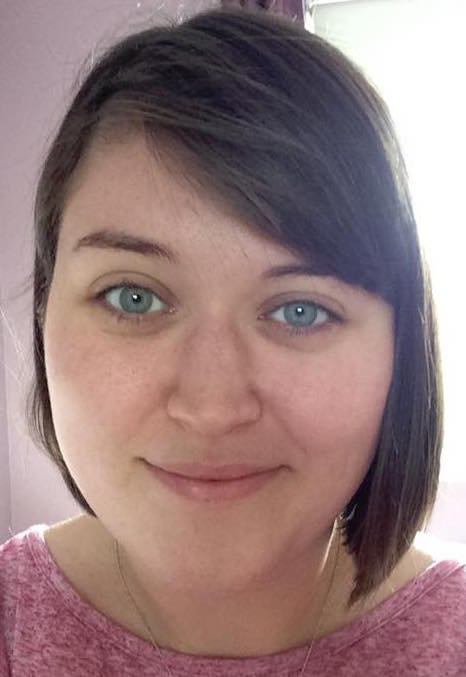
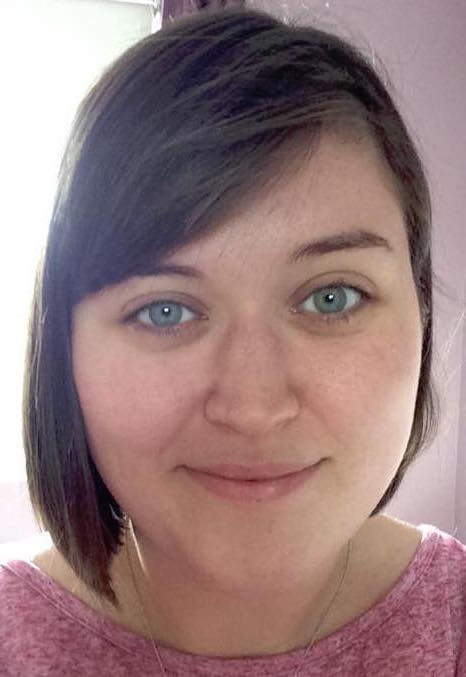
Committing updated photo and trying to fix mobile view

diff --git a/index.html b/index.html
@@ -2,7 +2,7 @@
 <html>
 	<head>
 		<title>Jill Robinson Portfolio</title>
-		<!-- <meta name="viewport" content="width=device-width, initial-scale=1"> -->
+		<meta name="viewport" content="width=device-width, initial-scale=1">
 	<style>
 
 		@font-face {
@@ -14,7 +14,37 @@
 			font-family: 'GravityBook', sans-serif;
 			margin: 0px;
 			padding: 0px;
+			width: 100%;
 		}
+
+		/*.grid_container {
+			width: 100%;
+			max-width: 1200px;
+		}
+
+		.row:before, .row:after {
+			content: "";
+			display: table ;
+			clear: both;
+		}
+
+		[class*='col-'] {
+			float: left;
+			min-height: 1px; 
+			width: 8.33%;
+		}
+
+		.col-4 {
+			width: 33.32%;
+		}
+
+		.col-12 {
+			width: 100%;
+		}
+
+		.col-5 {
+			width: 41.65%
+		}*/
 
 		.parallax {
 		/* The image used */
@@ -110,6 +140,7 @@
 			height: 100%;
 			width: 100%;
 			margin-right: 0px;
+			padding-right: 0px;
 		}
 
 		.scroller h2 {
@@ -160,6 +191,7 @@
 			flex-direction: row;
 			justify-content: space-around;
 			margin-bottom: 20px;
+			flex-wrap: wrap;
 		}
 
 		.technologies img {
@@ -272,88 +304,89 @@
 					</a>
 				</li>
 		</header>
+		<div class="grid_container">
+			<div class="parallax col-12">
+				<!-- div for the parallax background image -->
+			</div>
 
-		<div class="parallax">
-			<!-- div for the parallax background image -->
-		</div>
-
-		<div class="scroller" >
-			<h2 class="flex-h2">Hi, I'm <span class="span">Jill<span></h2>
-			<div class="flex-p">
-				<p>I'm a determined and motivated molecular microbiologist turned <span class="span">full-stack JavaScript engineer</span> currently living in <span class="span">San Jose, CA</span> (but originally from the UK)!</p> 
-				<p>I am passionate about learning new technologies, and have a special interest in <span class="span">front-end frameworks</span> such as <span class="span">AngularJS</span> and <span class="span">React</span>. I gained experience building in these frameworks at the Coding Dojo bootcamp I recently attended. I also have experience of working in full stack Python, and iOS.</p>
-				<p>If you feel like I could be a good fit for your team, please get in touch at contact@jillcrobinson.com, or view my <a href="https://www.linkedin.com/in/jillcrobinson">LinkedIn</a> or <a href="https://github.com/wildlingjill">GitHub</a> accounts.
-			</div>
-			<br>
-			<h3>Skills</h3>
-			<div class="technologies">
-				<div class="tooltip">
-					<img src="img/javascript.png" width="60" height="60"><span class="tooltiptext">JavaScript</span>
+			<div class="scroller col-12" >
+				<h2 class="flex-h2">Hi, I'm <span class="span">Jill</span></h2>
+				<div class="flex-p">
+					<p>I'm a determined and motivated molecular microbiologist turned <span class="span">full-stack JavaScript engineer</span> currently living in <span class="span">San Jose, CA</span> (but originally from the UK)!</p> 
+					<p>I am passionate about learning new technologies, and have a special interest in <span class="span">front-end frameworks</span> such as <span class="span">AngularJS</span> and <span class="span">React</span>. I gained experience building in these frameworks at the Coding Dojo bootcamp I recently attended. I also have experience of working in full stack Python, and iOS.</p>
+					<p>If you feel like I could be a good fit for your team, please get in touch at contact@jillcrobinson.com, or view my <a href="https://www.linkedin.com/in/jillcrobinson">LinkedIn</a> or <a href="https://github.com/wildlingjill">GitHub</a> accounts.</p>
 				</div>
-				<div class="tooltip">
-					<img src="img/angular.png" width="60" height="60"><span class="tooltiptext">AngularJS</span>
+				<br>
+				<h3>Skills</h3>
+				<div class="technologies">
+					<div class="tooltip">
+						<img src="img/javascript.png" width="60" height="60"><span class="tooltiptext">JavaScript</span>
+					</div>
+					<div class="tooltip">
+						<img src="img/angular.png" width="60" height="60"><span class="tooltiptext">AngularJS</span>
+					</div>
+					<div class="tooltip">
+						<img src="img/mongodb.png" width="60" height="60"><span class="tooltiptext">MongoDB</span>
+					</div>
+					<div class="tooltip">
+						<img src="img/node.png" width="60" height="60"><span class="tooltiptext">Node.js</span>
+					</div>
+					<div class="tooltip">
+						<img src="img/react.png" width="60" height="60"><span class="tooltiptext">React</span>
+					</div>
+					<div class="tooltip">
+						<img src="img/github2.png" width="60" height="60"><span class="tooltiptext">Git</span>
+					</div>
+					<div class="tooltip">
+						<img src="img/html5.png" width="60" height="60"><span class="tooltiptext">HTML5</span>
+					</div>
+					<div class="tooltip">
+						<img src="img/css3.png" width="60" height="60"><span class="tooltiptext">CSS3</span>
+					</div>
+					<div class="tooltip">
+						<img src="img/python.png" width="60" height="60"><span class="tooltiptext">Python</span>
+					</div>
+					<div class="tooltip">
+						<img src="img/swift.png" width="60" height="60"><span class="tooltiptext">Swift</span>
+					</div>
+					<div class="tooltip">
+						<img src="img/mysql.png" width="60" height="60"><span class="tooltiptext">MySQL</span>
+					</div>
 				</div>
-				<div class="tooltip">
-					<img src="img/mongodb.png" width="60" height="60"><span class="tooltiptext">MongoDB</span>
+				<br>
+				<h3>Projects</h3>
+				<div class="projectcontainer">
+					<div class="projects">
+						<a href="https://github.com/wildlingjill/maze_project">
+							<img class="img" src="img/imaze.png" width="400px" height="250px" style="margin-left: 20px">
+						</a>
+						<a href="https://github.com/wildlingjill/MEANBoilerplate/tree/belt2">
+							<img class="img" src="img/questionsanswers.png" width="400px" height="250px" style="margin-left: 20px">
+						</a>
+						<a href="https://github.com/wildlingjill/directme">
+							<img class="img" src="img/directme.png" width="400px" height="250px" style="margin-left: 20px">
+						</a>
+					</div>
+					<div class="projectdescriptions">
+						<p style="display: inline; width: 30%; color:white; text-align: center">iMaze: interactive marble maze game for iOS</p>
+						<p style="display: inline; width: 30%; color:white; text-align: center">Questions and Answers: a simple app that allows the user to post questions and answers, and up-vote other answers.</p>
+						<p style="display: inline; width: 30%; color:white; text-align: center">DirectMe: Python activities app with Yelp API integration</p>
+					</div>
 				</div>
-				<div class="tooltip">
-					<img src="img/node.png" width="60" height="60"><span class="tooltiptext">Node.js</span>
-				</div>
-				<div class="tooltip">
-					<img src="img/react.png" width="60" height="60"><span class="tooltiptext">React</span>
-				</div>
-				<div class="tooltip">
-					<img src="img/github2.png" width="60" height="60"><span class="tooltiptext">Git</span>
-				</div>
-				<div class="tooltip">
-					<img src="img/html5.png" width="60" height="60"><span class="tooltiptext">HTML5</span>
-				</div>
-				<div class="tooltip">
-					<img src="img/css3.png" width="60" height="60"><span class="tooltiptext">CSS3</span>
-				</div>
-				<div class="tooltip">
-					<img src="img/python.png" width="60" height="60"><span class="tooltiptext">Python</span>
-				</div>
-				<div class="tooltip">
-					<img src="img/swift.png" width="60" height="60"><span class="tooltiptext">Swift</span>
-				</div>
-				<div class="tooltip">
-					<img src="img/mysql.png" width="60" height="60"><span class="tooltiptext">MySQL</span>
-				</div>
-			</div>
-			<br>
-			<h3>Projects</h3>
-			<div class="projectcontainer">
-				<div class="projects">
-					<a href="https://github.com/wildlingjill/maze_project">
-						<img class="img" src="img/imaze.png" width="400px" height="250px" style="margin-left: 20px">
-					</a>
-					<a href="https://github.com/wildlingjill/MEANBoilerplate/tree/belt2">
-						<img class="img" src="img/questionsanswers.png" width="400px" height="250px" style="margin-left: 20px">
-					</a>
-					<a href="https://github.com/wildlingjill/directme">
-						<img class="img" src="img/directme.png" width="400px" height="250px" style="margin-left: 20px">
-					</a>
-				</div>
-				<div class="projectdescriptions">
-					<p style="display: inline; width: 30%; color:white; text-align: center">iMaze: interactive marble maze game for iOS</p>
-					<p style="display: inline; width: 30%; color:white; text-align: center">Questions and Answers: a simple app that allows the user to post questions and answers, and up-vote other answers.</p>
-					<p style="display: inline; width: 30%; color:white; text-align: center">DirectMe: Python activities app with Yelp API integration</p>
-				</div>
-			</div>
-			<br>
-			<div>
-				<h3>Thanks for visiting!</h3>
-				<div class="thankscontainer">
-					<img src="img/me.jpg" width="220" height="315" style="border-radius: 20px">
-					<div class="contactcontainer" style="text-align: center">
-						<h4><a href="docs/jillrobinsonresumeNov16.pdf">View my resume</a></h4>
-						<hr style="width: 100%; margin: 0px; opacity: 0.5">
-						<h4><a href="mailto:contact@jillcrobinson.com">Email me</a></h4>
-						<hr style="width: 100%; margin: 0px; opacity: 0.5">
-						<h4><a href="https://github.com/wildlingjill">View my GitHub profile</a></h4>
-						<hr style="width: 100%; margin:0px; opacity: 0.5">
-						<h4><a href="https://www.linkedin.com/in/jillcrobinson">Add me on LinkedIn</a></h4>
+				<br>
+				<div>
+					<h3>Thanks for visiting!</h3>
+					<div class="thankscontainer">
+						<img src="img/me.jpg" width="220" height="315" style="border-radius: 20px">
+						<div class="contactcontainer" style="text-align: center">
+							<h4><a href="docs/jillrobinsonresumeNov16.pdf">View my resume</a></h4>
+							<hr style="width: 100%; margin: 0px; opacity: 0.5">
+							<h4><a href="mailto:contact@jillcrobinson.com">Email me</a></h4>
+							<hr style="width: 100%; margin: 0px; opacity: 0.5">
+							<h4><a href="https://github.com/wildlingjill">View my GitHub profile</a></h4>
+							<hr style="width: 100%; margin:0px; opacity: 0.5">
+							<h4><a href="https://www.linkedin.com/in/jillcrobinson">Add me on LinkedIn</a></h4>
+						</div>
 					</div>
 				</div>
 			</div>
